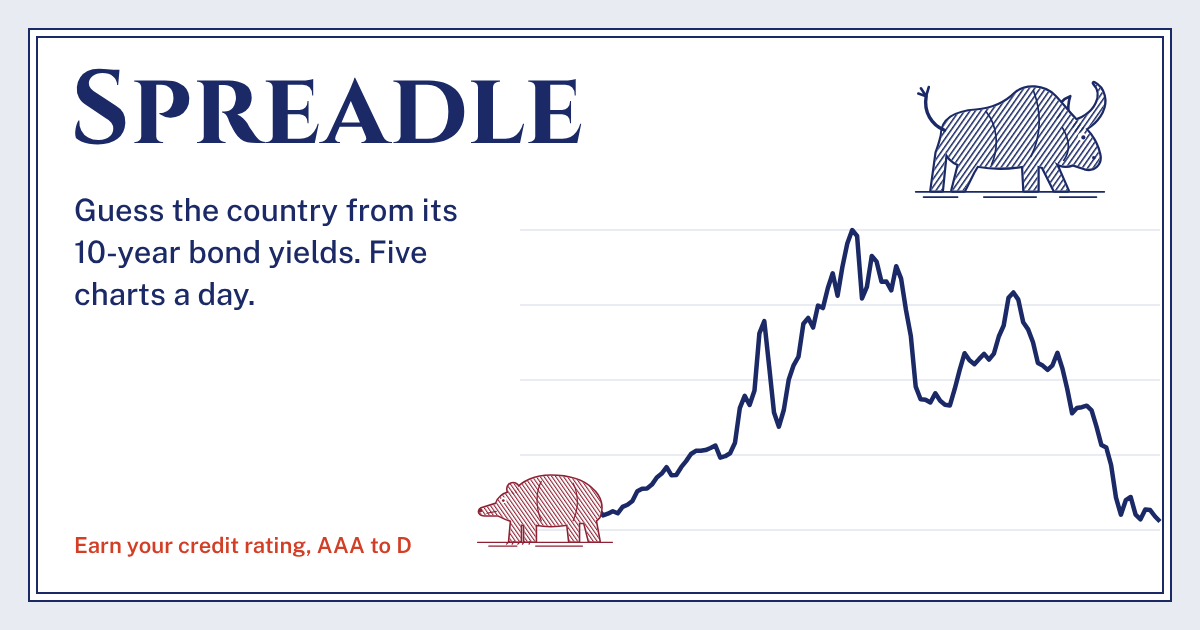
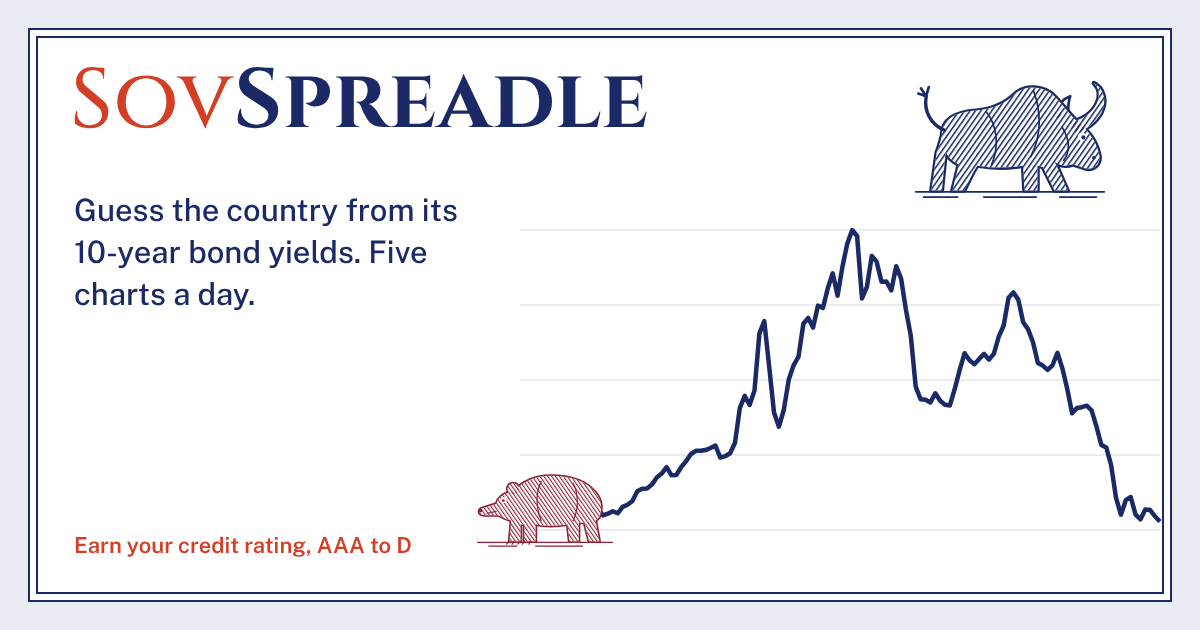
Rename the game to SovSpreadle
Saved-progress keys and the puzzle seed keep their old names, so streaks and published puzzles are unchanged.

Claude-Session: https://claude.ai/code/session_01KLcJ4ZrDVNrnY7GUZos1gK

Changed region(s): [[0.0617, 0.0905, 0.555, 0.2413]]

diff --git a/public/app.js b/public/app.js
@@ -1,4 +1,4 @@
-/* Spreadle: the daily bond session, the interface. Needs core.js loaded first; loads data.json, episodes.json,
+/* SovSpreadle: the daily bond session, the interface. Needs core.js loaded first; loads data.json, episodes.json,
    notes.json and (when present) puzzles.json, the frozen daily schedule. */
 {
 'use strict';
@@ -90,6 +90,7 @@ function noteFor(c, s){ let best = -1, bl = 1e9; const seen = store.get("spreadl
 /* ---------- session state ---------- */
 let dayN, dayLabel, plan, sess, mode = "daily", viewQ = 0, revealAnim = false, viewingDone = false, atHome = true;
 function freshSession(rounds, n){ return {n, sig: hash(JSON.stringify(rounds)), cur:0, score:0, done:false, started:false, rs: rounds.map(()=>({g:[], h:[], seq:[], done:false, pts:0}))} }
+// storage keys keep their original "spreadle-" names so saved progress and streaks survive the rename
 function save(){ if(mode === "daily") store.set("spreadle-session4", sess) }
 function loadDaily(){
   mode = "daily"; plan = dailyPlan(dayN);
@@ -141,7 +142,7 @@ function autoFacts(k, s, max=2){
   const neg = a.slice(s, s+W).filter(v=>v!=null && v<0).length;
   if(neg) extra.push(`It was below zero for ${neg} of the 120 months.`);
   const peers = keys.filter(c=>D.series[c][pk]!=null);
-  if(peers.length >= 5 && peers.every(c=>D.series[c][pk] <= a[pk])) extra.push(`In ${mlong(pk)} that was the highest yield of the ${peers.length} countries in Spreadle with data that month.`);
+  if(peers.length >= 5 && peers.every(c=>D.series[c][pk] <= a[pk])) extra.push(`In ${mlong(pk)} that was the highest yield of the ${peers.length} countries in the game with data that month.`);
   let bi = -1, bd = 0; for(let i=s;i+12<s+W;i++) if(a[i]!=null && a[i+12]!=null && Math.abs(a[i+12]-a[i]) > Math.abs(bd)){bd = a[i+12]-a[i]; bi = i}
   if(bi >= 0) extra.push(`Its biggest 12-month move: ${bd>0?"+":"−"}${Math.abs(bd).toFixed(2)} points, from ${mlabel(bi)} to ${mlabel(bi+12)}.`);
   return out.concat(extra).slice(0, max);
@@ -476,11 +477,11 @@ function render(){
 function shareText(){
   const used = sess.rs.reduce((n,x)=>n+(x.h||[]).length, 0), st = mode === "daily" ? streakNow() : 0;
   const row = sess.rs.map(x=>x.pts>0 ? EMO[x.pts] : "🟥").join("");
-  return `Spreadle #${sess.n ?? "∞"}: ${gradeOf(sess.score)} (${sess.score}/${MAXPTS})${st > 1 ? ` 🔥${st}` : ""}\n${row}${used ? ` 💡${used}` : ""}${siteUrl() ? "\n" + siteUrl() : ""}`;
+  return `SovSpreadle #${sess.n ?? "∞"}: ${gradeOf(sess.score)} (${sess.score}/${MAXPTS})${st > 1 ? ` 🔥${st}` : ""}\n${row}${used ? ` 💡${used}` : ""}${siteUrl() ? "\n" + siteUrl() : ""}`;
 }
 // the public address for the share text: the canonical link once a real domain is set, else this page's address
 function siteUrl(){ const c = document.querySelector('link[rel="canonical"]')?.href;
-  if(c && !c.includes("spreadle.example")) return c;
+  if(c && !c.includes("sovspreadle.example")) return c;
   return /^https?:$/.test(location.protocol) && !/^(localhost|127\.)/.test(location.hostname) && !/claude/.test(location.hostname) ? location.origin + location.pathname.replace(/index\.html$/, "") : "" }
 function untilMidnight(){ const n = new Date(), m = new Date(n.getFullYear(), n.getMonth(), n.getDate()+1), ms = m-n; return `${Math.floor(ms/36e5)}h ${Math.floor(ms%36e5/6e4)}m` }
 function openEnd(fresh){

diff --git a/public/credits.html b/public/credits.html
@@ -3,7 +3,7 @@
 <head>
 <meta charset="utf-8">
 <meta name="viewport" content="width=device-width,initial-scale=1">
-<title>Data and credits | Spreadle</title>
+<title>Data and credits | SovSpreadle</title>
 <link rel="icon" href="icon.svg" type="image/svg+xml">
 <link rel="stylesheet" href="fonts.css">
 <link rel="stylesheet" href="style.css">
@@ -20,9 +20,9 @@
 </head>
 <body>
 <main class="page">
-<a class="back" href="./">&larr; Back to Spreadle</a>
+<a class="back" href="./">&larr; Back to SovSpreadle</a>
 <h1>Data and credits</h1>
-<p>Spreadle shows monthly averages of long-term government bond yields. Every source below is credited as its licence requires. Charts are drawn from these figures; nothing is endorsed by the organisations named.</p>
+<p>SovSpreadle shows monthly averages of long-term government bond yields. Every source below is credited as its licence requires. Charts are drawn from these figures; nothing is endorsed by the organisations named.</p>
 <h2>Yield data</h2>
 <table>
 <tr><th>Source</th><th>What it supplies</th><th>Terms</th></tr>
@@ -35,12 +35,12 @@
 </table>
 <p>Some series are guess-only because they are not comparable 10-year benchmark yields: Iceland's OECD series is inflation-indexed, and the early years for South Korea (before October 2000), Israel (before 2001), Russia (before 2003) and India (before December 2011) come from different instruments or irregular sources.</p>
 <h2>Our data file</h2>
-<p>The combined monthly file Spreadle uses, <a href="data.json">data.json</a>, includes material from the Jordà-Schularick-Taylor database and is shared under the same licence, <a href="https://creativecommons.org/licenses/by-nc-sa/4.0/">CC BY-NC-SA 4.0</a>, with the credits above. Spreadle is free and non-commercial.</p>
+<p>The combined monthly file SovSpreadle uses, <a href="data.json">data.json</a>, includes material from the Jordà-Schularick-Taylor database and is shared under the same licence, <a href="https://creativecommons.org/licenses/by-nc-sa/4.0/">CC BY-NC-SA 4.0</a>, with the credits above. SovSpreadle is free and non-commercial.</p>
 <h2>Facts and ratings</h2>
 <p>Historical notes were checked against central-bank, IMF and EU publications. Rating landmarks on the ladder refer to public actions by S&amp;P and Moody's. If you spot an error, please report it.</p>
 <h2>Fonts and code</h2>
 <p>Cinzel and Public Sans, under the <a href="fonts/OFL-Cinzel.txt">SIL Open Font License</a>, served from this site. Sounds and music are synthesised in your browser. The game's code is released under the MIT licence.</p>
-<p>Spreadle is a game. Nothing here is investment advice.</p>
+<p>SovSpreadle is a game. Nothing here is investment advice.</p>
 </main>
 </body>
 </html>

diff --git a/public/index.html b/public/index.html
@@ -3,15 +3,15 @@
 <head>
 <meta charset="utf-8">
 <meta name="viewport" content="width=device-width,initial-scale=1">
-<title>Spreadle: guess the country from its bond yields</title>
+<title>SovSpreadle: guess the country from its bond yields</title>
 <meta name="description" content="A daily game: five 10-year government bond yield charts, five coupons each. Guess the country, the year, or who paid more to borrow.">
 <meta name="theme-color" content="#1b2a66">
 <meta property="og:type" content="website">
-<meta property="og:title" content="Spreadle: guess the country from its bond yields">
+<meta property="og:title" content="SovSpreadle: guess the country from its bond yields">
 <meta property="og:description" content="Five bond charts a day. Spend your coupons wisely and earn your credit rating.">
-<link rel="canonical" href="https://spreadle.example/">
-<meta property="og:url" content="https://spreadle.example/">
-<meta property="og:image" content="https://spreadle.example/og.png">
+<link rel="canonical" href="https://sovspreadle.example/">
+<meta property="og:url" content="https://sovspreadle.example/">
+<meta property="og:image" content="https://sovspreadle.example/og.png">
 <meta property="og:image:width" content="1200">
 <meta property="og:image:height" content="630">
 <meta name="twitter:card" content="summary_large_image">
@@ -56,7 +56,7 @@
 </defs></svg>
 
 <header class="top">
-  <button type="button" class="brand" id="homeBtn" aria-label="Spreadle home"><svg class="brand-bull" aria-hidden="true"><use href="#bull"/></svg><span>Spreadle</span></button>
+  <button type="button" class="brand" id="homeBtn" aria-label="SovSpreadle home"><svg class="brand-bull" aria-hidden="true"><use href="#bull"/></svg><span><span class="sov">Sov</span>Spreadle</span></button>
   <p class="session" id="sessionLbl"></p>
   <div class="tools">
     <button type="button" class="tool" id="sndBtn" aria-pressed="true" aria-label="Sound effects"><svg viewBox="0 0 24 24" aria-hidden="true"><path d="M4 9h4l5-4v14l-5-4H4z" class="ti"/><path d="M16.5 8.5a5 5 0 0 1 0 7M19 6a8.5 8.5 0 0 1 0 12" class="ts"/></svg></button>
@@ -68,7 +68,7 @@
 <main class="layout">
   <div class="play">
     <section class="cert landing" id="landing" aria-labelledby="landTitle">
-      <div class="band"><svg class="guil" aria-hidden="true"></svg><h1 id="landTitle">Spreadle</h1></div>
+      <div class="band"><svg class="guil" aria-hidden="true"></svg><h1 id="landTitle"><span class="sov">Sov</span>Spreadle</h1></div>
       <p class="land-sub">The daily bond session</p>
       <div class="vignette" aria-hidden="true">
         <svg class="mascot"><use href="#bull"/></svg>

diff --git a/public/privacy.html b/public/privacy.html
@@ -3,7 +3,7 @@
 <head>
 <meta charset="utf-8">
 <meta name="viewport" content="width=device-width,initial-scale=1">
-<title>Privacy | Spreadle</title>
+<title>Privacy | SovSpreadle</title>
 <link rel="icon" href="icon.svg" type="image/svg+xml">
 <link rel="stylesheet" href="fonts.css">
 <link rel="stylesheet" href="style.css">
@@ -20,9 +20,9 @@
 </head>
 <body>
 <main class="page">
-<a class="back" href="./">&larr; Back to Spreadle</a>
+<a class="back" href="./">&larr; Back to SovSpreadle</a>
 <h1>Privacy</h1>
-<p>Spreadle has no accounts, no cookies, no ads and no tracking. It does not collect personal data.</p>
+<p>SovSpreadle has no accounts, no cookies, no ads and no tracking. It does not collect personal data.</p>
 <h2>What stays on your device</h2>
 <p>Your progress is saved in your own browser's local storage, so you can close the page and come back. Nothing is sent to us. It holds:</p>
 <ul>
@@ -33,7 +33,7 @@
 </ul>
 <p>To delete it, clear this site's data in your browser settings.</p>
 <h2>Hosting</h2>
-<p>Like any website, the hosting provider receives your IP address and browser details when you load the pages, to deliver them and keep the service secure. Spreadle does not use those records. Fonts and all game files are served from this site; no third-party servers are contacted.</p>
+<p>Like any website, the hosting provider receives your IP address and browser details when you load the pages, to deliver them and keep the service secure. SovSpreadle does not use those records. Fonts and all game files are served from this site; no third-party servers are contacted.</p>
 <h2>Contact</h2>
 <p>Questions about privacy: [your contact email].</p>
 <p>Last updated: 22 November 2026.</p>

diff --git a/public/core.js b/public/core.js
@@ -1,4 +1,4 @@
-/* Spreadle core: reference data, data prep and the puzzle generator. No DOM here, so the same file runs in
+/* SovSpreadle core: reference data, data prep and the puzzle generator. No DOM here, so the same file runs in
    the browser (loaded before app.js) and in Node (scripts/make_puzzles.mjs builds the frozen schedule). */
 'use strict';
 /* ---------- reference data ---------- */

diff --git a/public/style.css b/public/style.css
@@ -229,3 +229,4 @@ label{display:block;font-weight:600;margin-bottom:6px}
 .end-mwrap.rear .end-mascot{transform-origin:18% 90%}.end-mwrap.roar .end-mascot{transform-origin:82% 90%}
 .sugg button .part{margin-left:6px;font-size:12px;font-weight:400;color:var(--ink2)}
 .foot a{margin-left:12px;white-space:nowrap}
+.sov{color:var(--stamp);font-weight:500}

diff --git a/scripts/fetch_data.py b/scripts/fetch_data.py
@@ -12,7 +12,7 @@ from datetime import date
 
 ROOT = os.path.dirname(os.path.dirname(os.path.abspath(__file__)))
 RAW = os.path.join(ROOT, "data", "raw")
-UA = "spreadle-data-update/1.0 (monthly refresh of public bond-yield statistics)"
+UA = "sovspreadle-data-update/1.0 (monthly refresh of public bond-yield statistics)"
 
 
 def get(url, tries=3):

diff --git a/scripts/set_domain.py b/scripts/set_domain.py
@@ -1,5 +1,5 @@
 """Put your site's address into the page metadata (share previews need full addresses).
-Usage: python3 scripts/set_domain.py https://spreadle.example.com
+Usage: python3 scripts/set_domain.py https://sovspreadle.com
 """
 import os, re, sys
 

diff --git a/README.md b/README.md
@@ -1,4 +1,4 @@
-# Spreadle
+# SovSpreadle
 
 A daily browser game: five 10-year government bond yield charts, five coupons each. Guess the country,
 the year, or who paid more to borrow, and earn a credit rating from D to AAA.
@@ -10,7 +10,7 @@ A monthly GitHub Action refreshes the data and extends the puzzle schedule.
 
 1. **Create a GitHub repository** and push this folder to it:
    ```sh
-   git remote add origin https://github.com/<you>/spreadle.git
+   git remote add origin https://github.com/<you>/sovspreadle.git
    git push -u origin main
    ```
 2. **Connect a free static host.** Cloudflare Pages is a good choice (fast, free, unlimited traffic):
